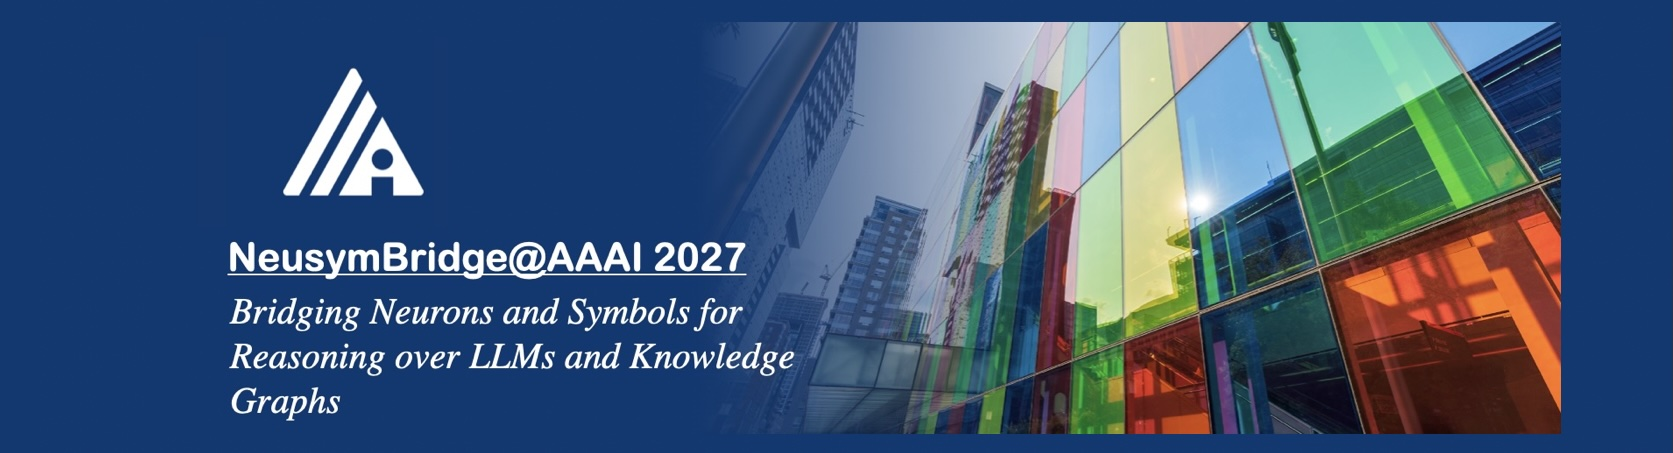
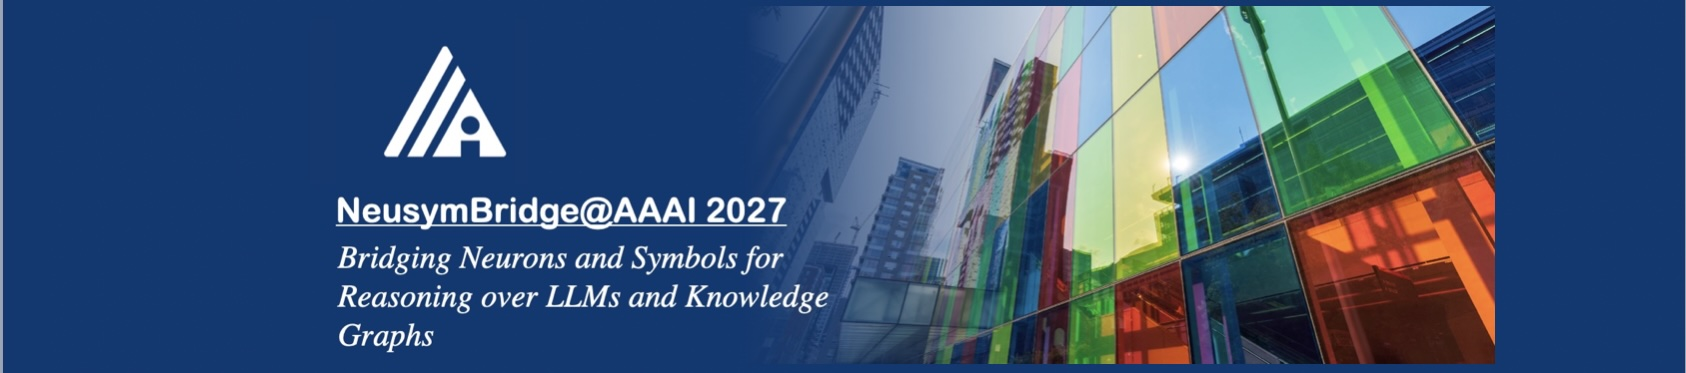
pub

diff --git a/publications.html b/publications.html
@@ -57,6 +57,7 @@ div.journal-select {
     <section>
       <div class="journal-select">
         <span class="journal-select__text">Select:</span></br>
+        <a href="#2026"><span data-block-id="2026" class="journal-select__item">2026</span></a>
         <a href="#2025"><span data-block-id="2025" class="journal-select__item">2025</span></a>
         <a href="#2024"><span data-block-id="2024" class="journal-select__item">2024</span></a>
         <a href="#2023"><span data-block-id="2023" class="journal-select__item">2023</span></a>
@@ -73,6 +74,18 @@ div.journal-select {
       <ul id="selected" class="publications-container">
         <h2 class="section__title">Selected Publications</h2>
         <div class="publications-section-container">
+          <div class="publication-item">
+            <span class="publication-item__title normal">Non-Zero Radius: The Missing Component of Neural Networks<a href="https://www.researchgate.net/publication/412097465_Non-Zero_Radius_The_Missing_Component_of_Neural_Networks">(link)</a></span>
+            <span class="publication-item__subtitle"><b class="publication-item__journal">ACM </b> September 2026</span>
+            <span class="publication-item__authors"><b>Tiansi Dong</b>, Mateja Jamnik, Pietro Liò </span>
+          </div>
+
+          <div class="publication-item">
+            <span class="publication-item__title normal">Proceedings of the 3rd Workshop of NeusymBridge@AAAI 2026<a href="https://link.springer.com/book/9789819244317">(link )</a></span>
+            <span class="publication-item__subtitle"><b class="publication-item__journal">Springer LNAI series as Volume 16779</b> Oct 2026</span>
+            <span class="publication-item__authors"><b>Tiansi Dong</b>, Shizhu He, Yunfei Long </span>
+          </div>
+
           <div class="publication-item">
             <span class="publication-item__title normal">Neural Reasoning for Sure Through Constructing Explainable Models<a href="https://www.researchgate.net/publication/389396704_Neural_Reasoning_for_Sure_Through_Constructing_Explainable_Models">(link)</a></span>
             <span class="publication-item__subtitle"><b class="publication-item__journal">AAAI </b> Feb 2025</span>
@@ -188,6 +201,33 @@ div.journal-select {
           </div>
         </div>
       </ul>
+
+      <ol reversed start="52" id="2026" class="publications-container">
+        <h2 class="section__title">2026</h2>
+        <div class="publications-section-container">
+
+          <div class="publication-item">
+            <span class="publication-item__title normal">Non-Zero Radius: The Missing Component of Neural Networks<a href="https://www.researchgate.net/publication/412097465_Non-Zero_Radius_The_Missing_Component_of_Neural_Networks">(link)</a></span>
+            <span class="publication-item__subtitle"><b class="publication-item__journal">ACM </b> September 2026</span>
+            <span class="publication-item__authors"><b>Tiansi Dong</b>, Mateja Jamnik, Pietro Liò </span>
+          </div>
+
+
+          <div class="publication-item">
+            <span class="publication-item__title normal">Proceedings of the 3rd Workshop of NeusymBridge@AAAI 2026<a href="https://link.springer.com/book/9789819244317">(link )</a></span>
+            <span class="publication-item__subtitle"><b class="publication-item__journal">Springer LNAI series as Volume 16779</b> Oct 2026</span>
+            <span class="publication-item__authors"><b>Tiansi Dong</b>, Shizhu He, Yunfei Long </span>
+            <details>
+            <summary class="publication-item__abstract"><b>Abstract</b> (click)</summary>
+            <p class="publication-item__text">.</p>
+            <!--img class="publication-item__image" src="img/publications/journals/141.png" alt="Figure" /-->
+            </details>
+          </div>
+            
+        </div>
+      </ol>
+
+
       <ol reversed start="50" id="2025" class="publications-container">
         <h2 class="section__title">2025</h2>
         <div class="publications-section-container">
